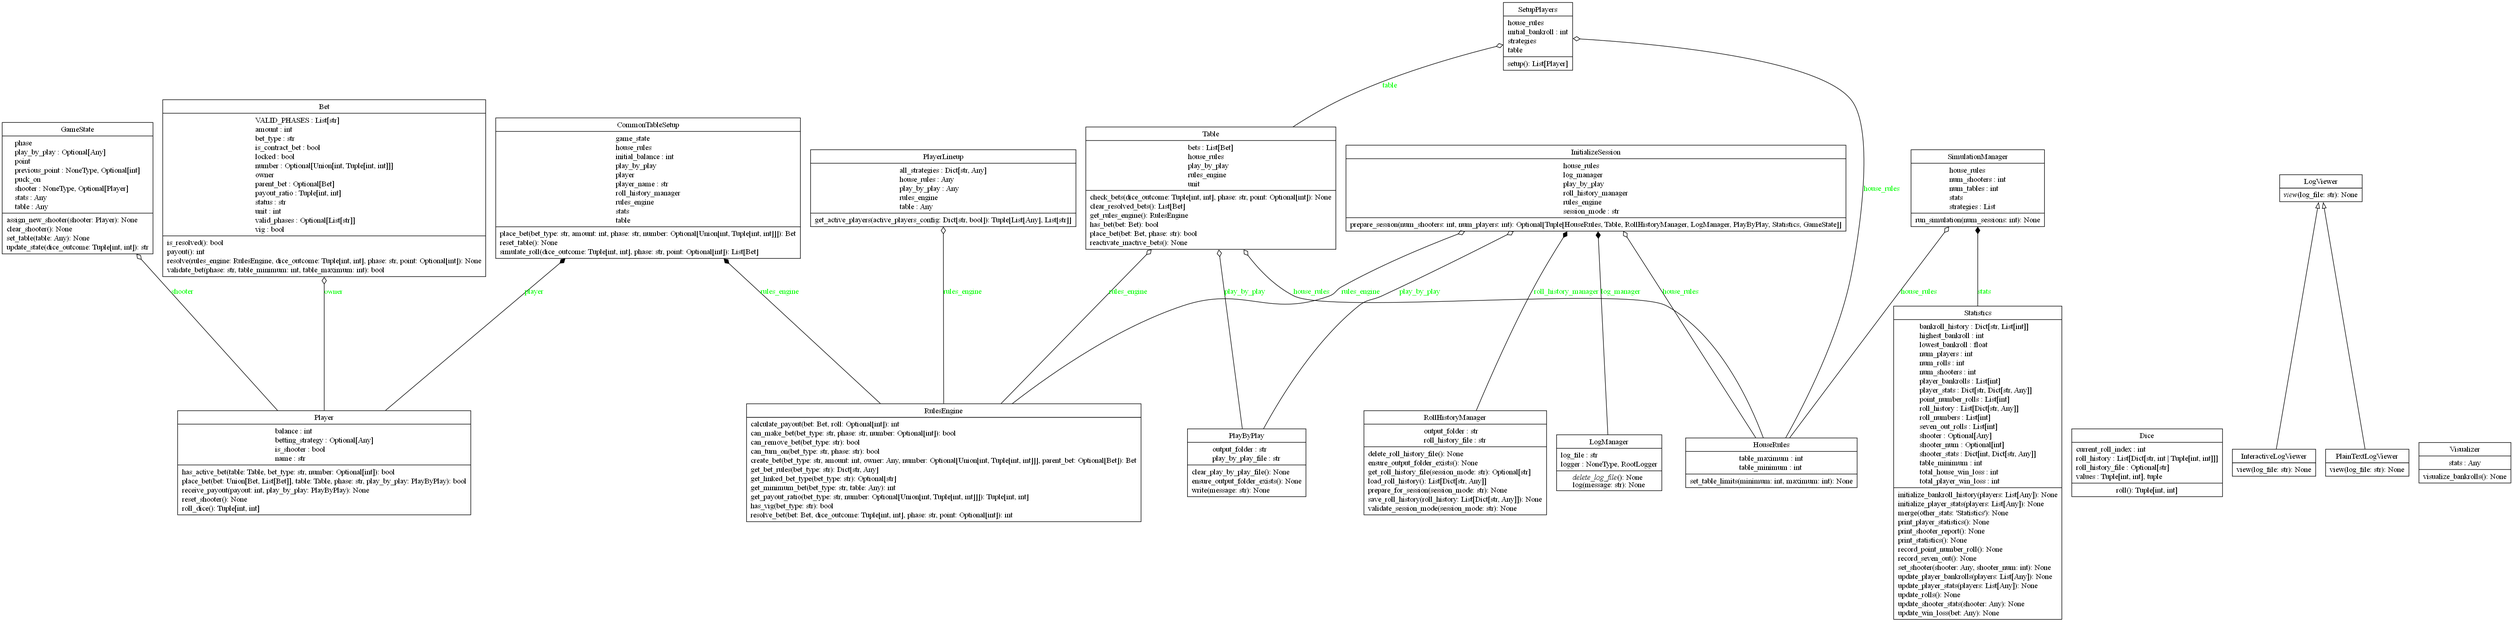
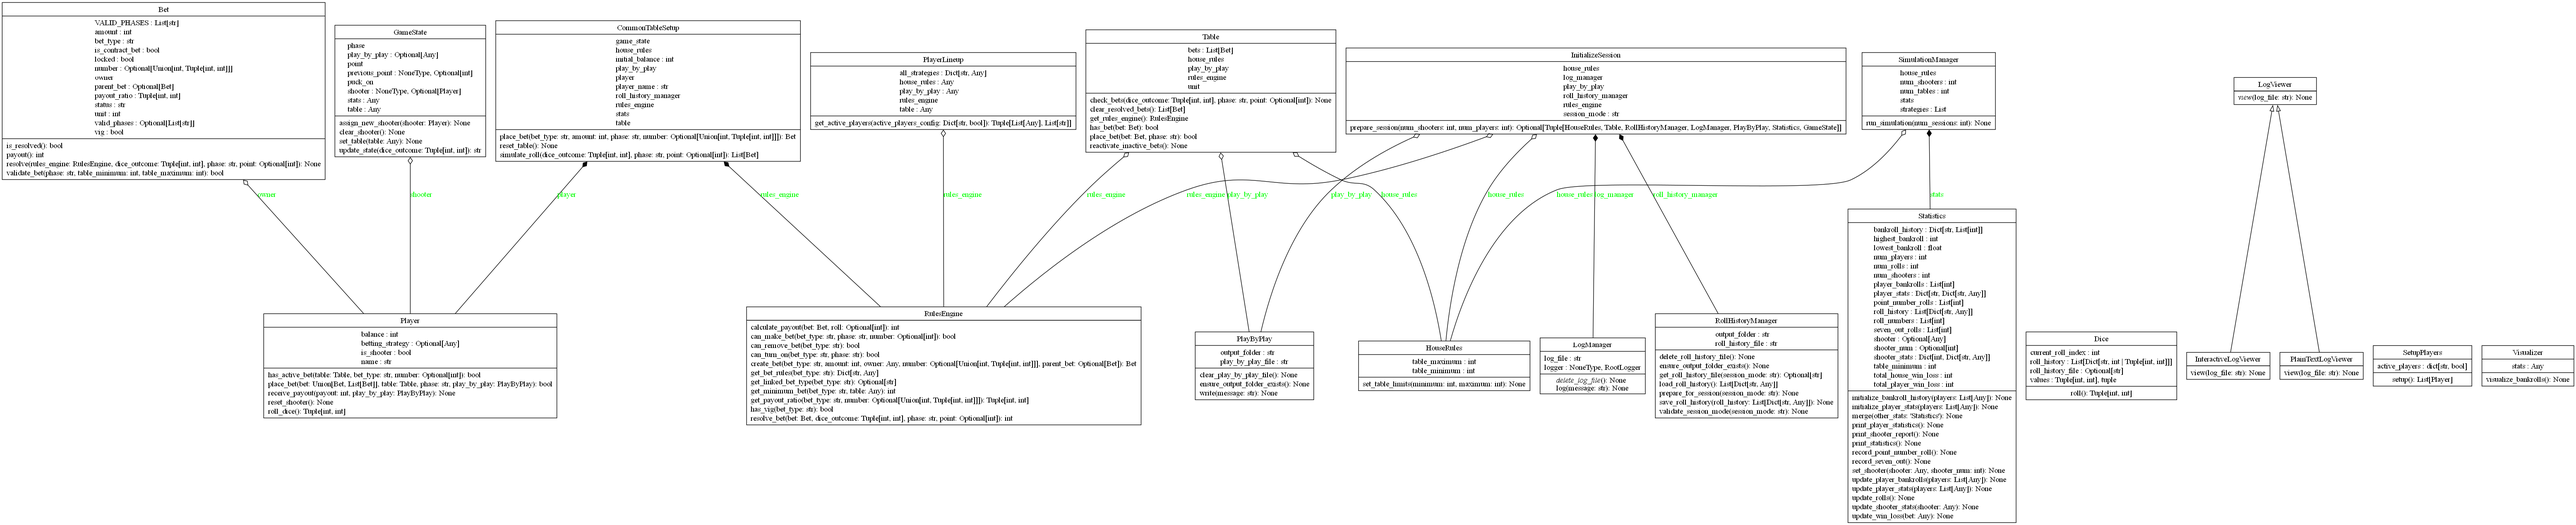
Fixed Player Setup w/ strategies

diff --git a/craps/player_setup.py b/craps/player_setup.py
@@ -1,49 +1,20 @@
-from typing import List, Any
 from config import ACTIVE_PLAYERS
 from craps.player import Player
-from craps.house_rules import HouseRules
-from craps.table import Table
+from typing import List
 
 class SetupPlayers:
-    """
-    Responsible for setting up players with names, bankroll, and strategies.
-    This was previously handled in SingleSession.
-    """
+    def __init__(self) -> None:  # ✅ Explicit return type annotation
+        """Initialize player setup."""
+        self.active_players: dict[str, bool] = ACTIVE_PLAYERS  # ✅ Typed dictionary
 
-    def __init__(self, house_rules: HouseRules, table: Table, strategies: List[Any], initial_bankroll: int = 500):
-        """
-        Initialize player setup.
-
-        :param house_rules: The HouseRules instance to enforce table limits.
-        :param table: The game table where players will place bets.
-        :param strategies: List of betting strategies, one per player.
-        :param initial_bankroll: Starting bankroll for each player.
-        """
-        self.house_rules = house_rules
-        self.table = table
-        self.strategies = strategies or []  # ✅ Ensure it's never None
-        self.initial_bankroll = initial_bankroll
-
-    def setup(self) -> List[Player]:
-        """
-        Create players and assign betting strategies.
-
-        :return: A list of Player objects.
-        """
-        if not self.strategies:
-            raise ValueError("No betting strategies provided. Cannot create players.")
-
-        # ✅ Ensure player names align with strategy count
-        num_players = len(self.strategies)
-        if isinstance(ACTIVE_PLAYERS, list) and len(ACTIVE_PLAYERS) >= num_players:
-            player_names = ACTIVE_PLAYERS[:num_players]
-        else:
-            player_names = [f"Player {i+1}" for i in range(num_players)]
-
-        # ✅ Create Player instances
-        players = [
-            Player(name=player_names[i], initial_balance=self.initial_bankroll, betting_strategy=strategy)
-            for i, strategy in enumerate(self.strategies)
+    def setup(self) -> List[Player]:  # ✅ Now fully type hinted
+        """Create and return a list of active players based on ACTIVE_PLAYERS settings."""
+        players: List[Player] = [
+            Player(name=strategy, initial_balance=500, betting_strategy=strategy)
+            for strategy, enabled in self.active_players.items() if enabled  # ✅ Only include enabled strategies
         ]
 
-        return players  # ✅ Now returns only the list of players
+        if not players:
+            raise ValueError("No active players found. Cannot start session.")
+
+        return players

diff --git a/craps/single_session.py b/craps/single_session.py
@@ -54,8 +54,7 @@ def run_single_session(
 
     # ✅ Initialize players via SetupPlayers
     strategies = strategies or []
-    player_setup = SetupPlayers(house_rules, table, strategies)
-    players = player_setup.setup()
+    players = SetupPlayers().setup()
 
     # ✅ Validate players exist
     if not players:
